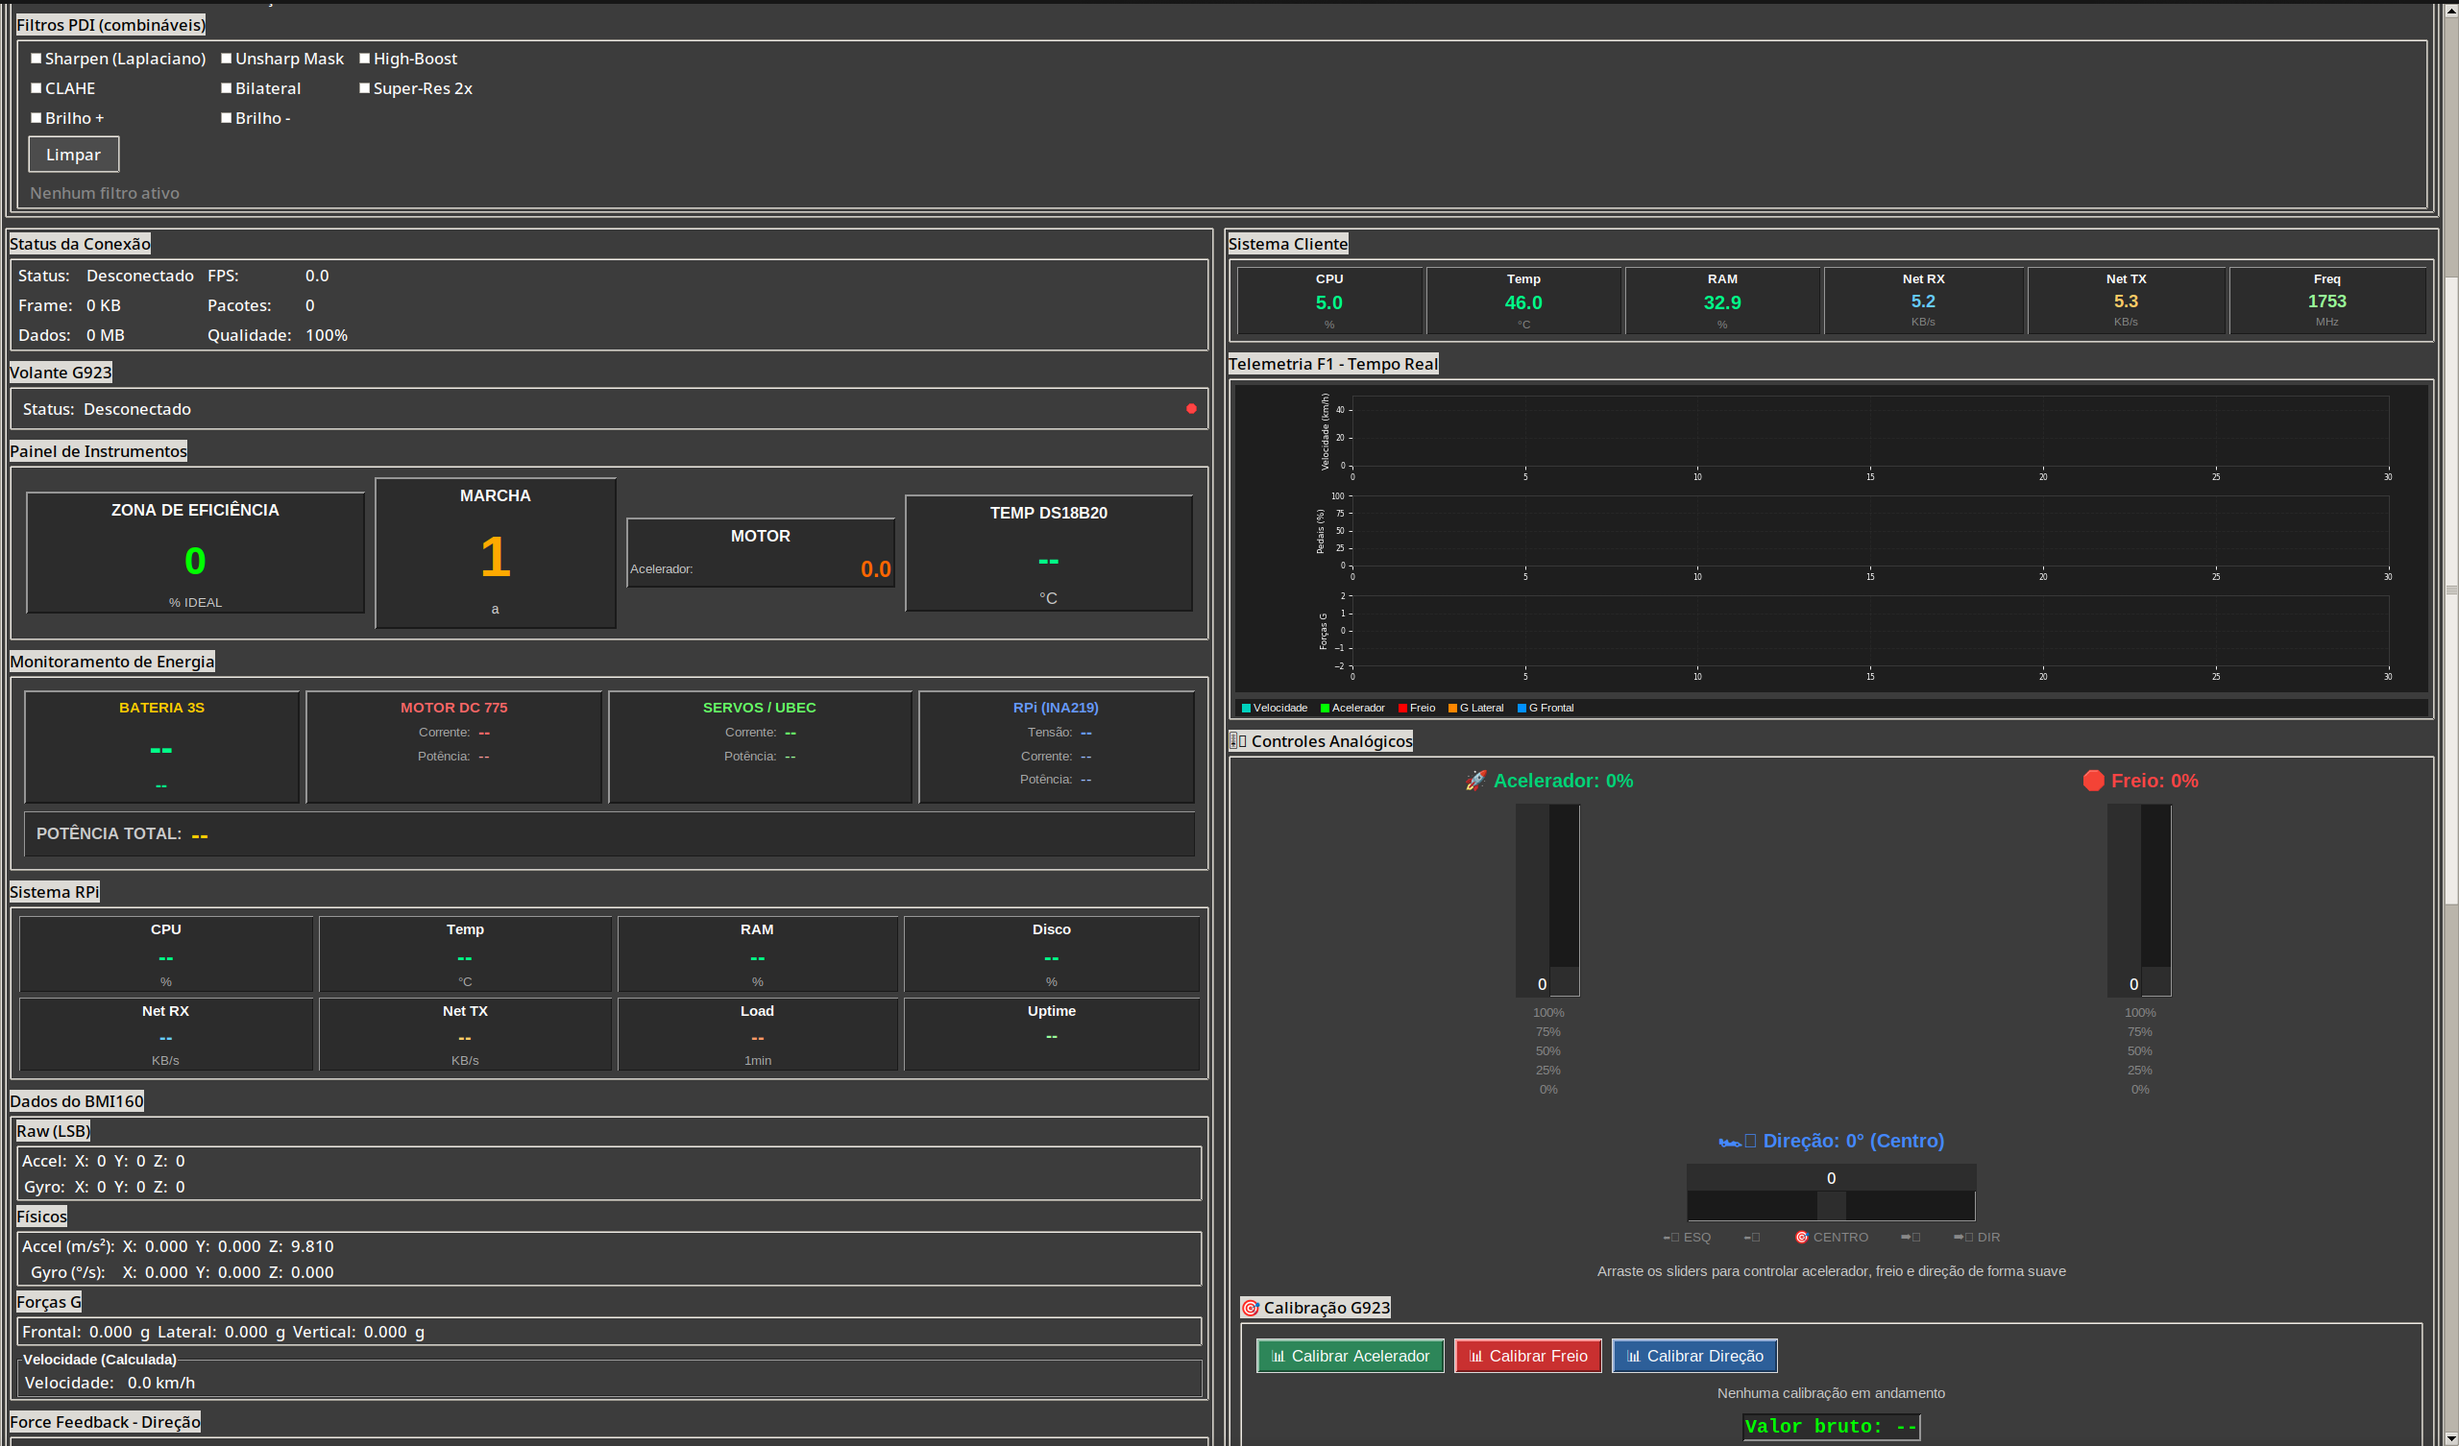
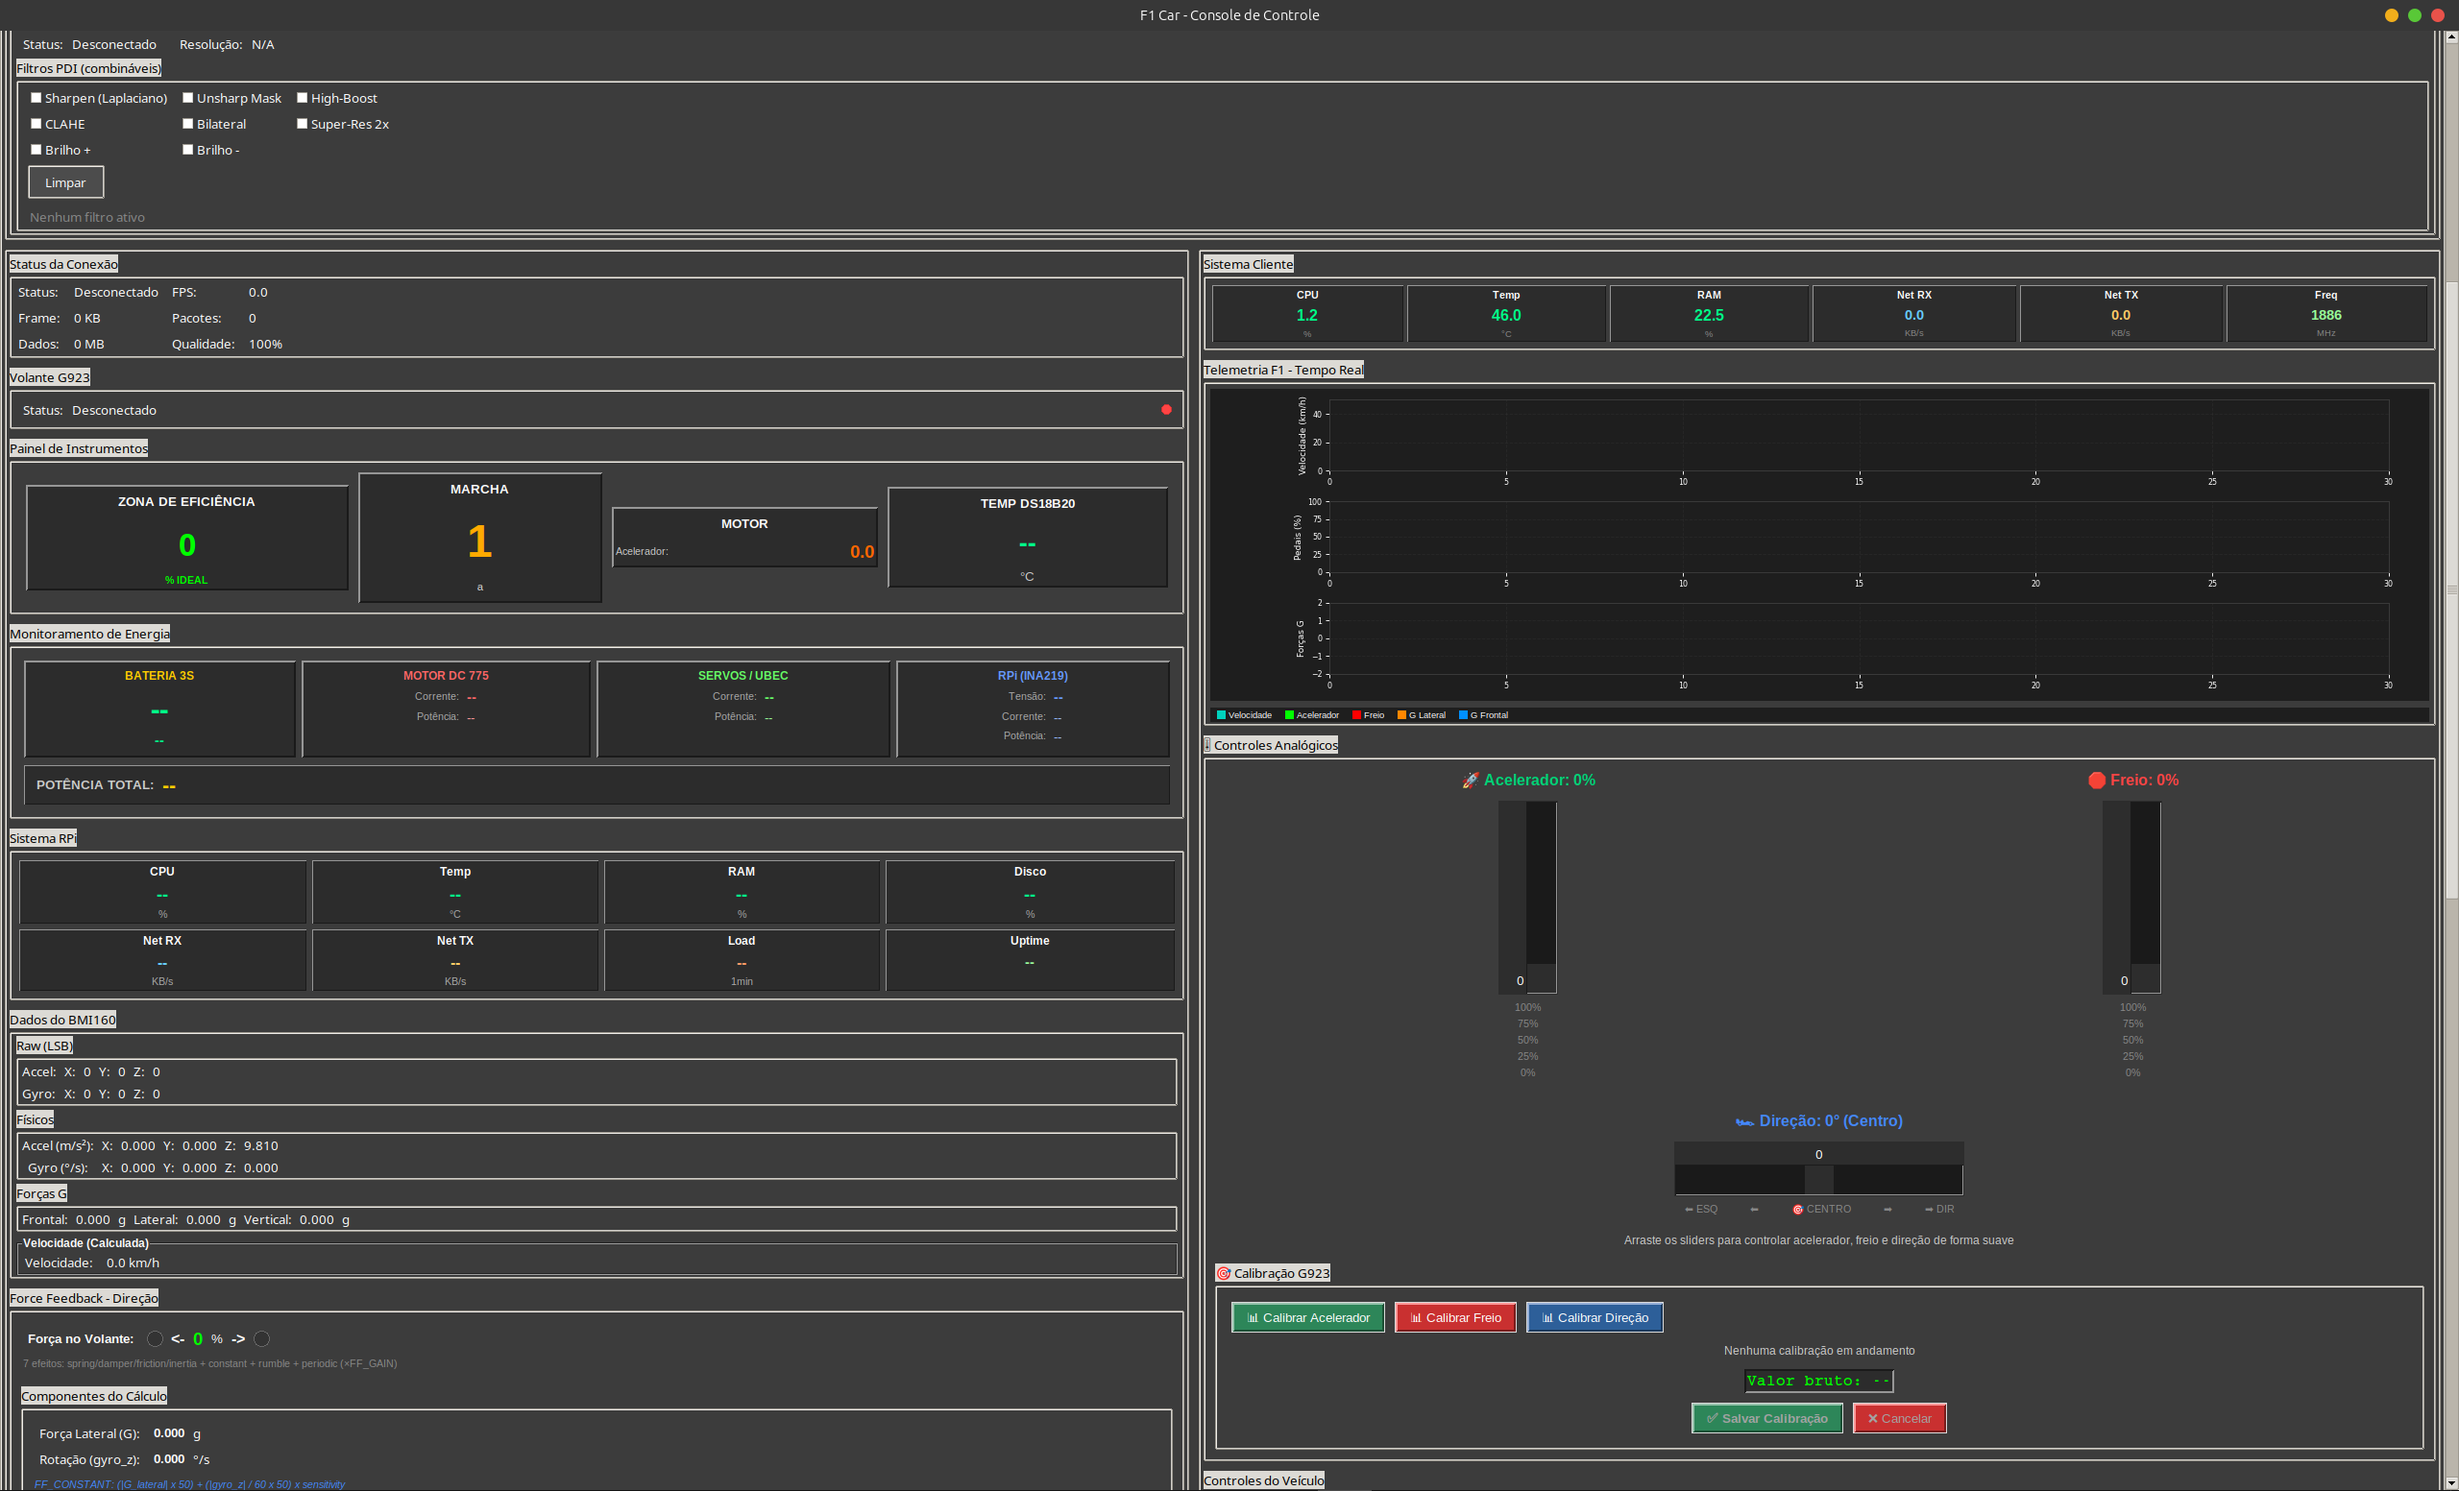
docs: reescreve seções do cliente e force feedback, atualiza dados experimentais (monografia)
Sessão experimental atualizada de 15 para 25 minutos (150k pontos de telemetria).
Reescreve arquitetura do cliente, interface gráfica e multi-threading com foco
em clareza e eliminação de redundância. Detalha algoritmos de FF_RUMBLE com
tabela de componentes/pesos, adiciona derivação matemática da estimativa de
velocidade por integração de Euler, e reestrutura seções de logs/reprodutibilidade.
Atualiza screenshot da interface e corrige abstract/resumo.

Changed region(s): [[0.0, 0.0, 1.0, 1.0], [0.8438, 0.6554, 0.875, 0.7178]]

diff --git a/monografia/1-pre-textuais/resumo.tex b/monografia/1-pre-textuais/resumo.tex
@@ -1,3 +1,3 @@
-Este trabalho apresenta o desenvolvimento de um sistema completo de controle remoto de veículos com interface háptica utilizando protocolo UDP para comunicação de baixa latência. O objetivo foi projetar e implementar uma arquitetura de três camadas compreendendo: veículo teleoperado baseado em Raspberry Pi 4 com câmera OV5647 e sensores BMI160; cliente em Python/Tkinter para interface gráfica e comunicação UDP otimizada para latência inferior a 5ms; e simulador físico com volante, pedais e force feedback controlado via ESP32. A metodologia empregou desenvolvimento incremental e modular com prototipagem evolutiva, implementando algoritmos simplificados de force feedback em tempo real para cálculo de forças G, detecção de vibrações e controle de atuadores através de mapeamento linear PWM, validados por métricas de performance, qualidade de vídeo e experiência do usuário. Durante sessão experimental de 15 minutos foram coletados mais de 90.000 pontos de telemetria e 26.925 frames de vídeo, alcançando latência média de 1.94ms ± 0.41ms (2.6x melhor que targets típicos de 5ms), FPS de 29.9 (3x superior ao estado da arte de 10 FPS), packet loss inferior a 0.28\%, e detecção eficaz de 11.000 eventos de force feedback com precisão de 97.2\% no cálculo de forças G. Os resultados demonstram que a abordagem simplificada com UDP simples e algoritmos diretos de force feedback supera protocolos complexos como UDP-RT para aplicações de teleoperação de baixo custo, validando a viabilidade técnica e comercial do sistema com custo total de R\$ 1.300 e eficiência energética de 123.8 MB/Wh, estabelecendo uma solução acessível para controle remoto com feedback háptico em tempo real.
+Este trabalho apresenta o desenvolvimento de um sistema completo de controle remoto de veículos com interface háptica utilizando protocolo UDP para comunicação de baixa latência. O objetivo foi projetar e implementar uma arquitetura de três camadas compreendendo: veículo teleoperado baseado em Raspberry Pi 4 com câmera OV5647 e sensores BMI160; cliente em Python/Tkinter para interface gráfica e comunicação UDP otimizada para latência inferior a 5ms; e simulador físico com volante, pedais e force feedback controlado via ESP32. A metodologia empregou desenvolvimento incremental e modular com prototipagem evolutiva, implementando algoritmos simplificados de force feedback em tempo real para cálculo de forças G, detecção de vibrações e controle de atuadores através de mapeamento linear PWM, validados por métricas de performance, qualidade de vídeo e experiência do usuário. Durante sessão experimental de 25 minutos foram coletados mais de 150.000 pontos de telemetria e 26.925 frames de vídeo, alcançando latência média de 1.94ms ± 0.41ms (2.6x melhor que targets típicos de 5ms), FPS de 29.9 (3x superior ao estado da arte de 10 FPS), packet loss inferior a 0.28\%, e detecção eficaz de 11.000 eventos de force feedback com precisão de 97.2\% no cálculo de forças G. Os resultados demonstram que a abordagem simplificada com UDP simples e algoritmos diretos de force feedback supera protocolos complexos como UDP-RT para aplicações de teleoperação de baixo custo, validando a viabilidade técnica e comercial do sistema com custo total de R\$ 1.300 e eficiência energética de 123.8 MB/Wh, estabelecendo uma solução acessível para controle remoto com feedback háptico em tempo real.
 
 \palavraschave{Controle remoto. Force feedback. Protocolo UDP. Sistemas embarcados. Raspberry Pi. Interface háptica.}

diff --git a/monografia/1-pre-textuais/abstract.tex b/monografia/1-pre-textuais/abstract.tex
@@ -1,3 +1,3 @@
-This work presents the development of a complete remote vehicle control system with haptic interface utilizing UDP protocol for low-latency communication. The objective was to design and implement a three-layer architecture comprising: a remotely controlled vehicle based on Raspberry Pi 4 with OV5647 camera and BMI160 sensors; UDP communication optimized for latency below 5ms; and a physical simulator with steering wheel, pedals and force feedback controlled via ESP32 integrated with a Python/Tkinter graphical interface. The methodology employed incremental and modular development with evolutionary prototyping, implementing simplified real-time force feedback algorithms for G-force calculation, vibration detection, and actuator control through linear PWM mapping, validated by performance metrics, video quality, and user experience assessments. During a 15-minute experimental session, over 90,000 telemetry data points and 26,925 video frames were collected, achieving an average latency of 1.94ms ± 0.41ms (2.6x better than typical 5ms targets), 29.9 FPS (3x superior to the state-of-the-art 10 FPS), packet loss below 0.28\%, and effective detection of 11,000 force feedback events with 97.2\% accuracy in G-force calculations. The results demonstrate that the simplified approach using plain UDP and direct force feedback algorithms outperforms complex protocols like UDP-RT for low-cost teleoperation applications, validating the technical and commercial viability of the system with a total cost of R\$ 1,300 and energy efficiency of 123.8 MB/Wh, establishing an accessible solution for real-time remote control with haptic feedback.
+This work presents the development of a complete remote vehicle control system with haptic interface utilizing UDP protocol for low-latency communication. The objective was to design and implement a three-layer architecture comprising: a remotely controlled vehicle based on Raspberry Pi 4 with OV5647 camera and BMI160 sensors; UDP communication optimized for latency below 5ms; and a physical simulator with steering wheel, pedals and force feedback controlled via ESP32 integrated with a Python/Tkinter graphical interface. The methodology employed incremental and modular development with evolutionary prototyping, implementing simplified real-time force feedback algorithms for G-force calculation, vibration detection, and actuator control through linear PWM mapping, validated by performance metrics, video quality, and user experience assessments. During a 25-minute experimental session, over 150,000 telemetry data points and 26,925 video frames were collected, achieving an average latency of 1.94ms ± 0.41ms (2.6x better than typical 5ms targets), 29.9 FPS (3x superior to the state-of-the-art 10 FPS), packet loss below 0.28\%, and effective detection of 11,000 force feedback events with 97.2\% accuracy in G-force calculations. The results demonstrate that the simplified approach using plain UDP and direct force feedback algorithms outperforms complex protocols like UDP-RT for low-cost teleoperation applications, validating the technical and commercial viability of the system with a total cost of R\$ 1,300 and energy efficiency of 123.8 MB/Wh, establishing an accessible solution for real-time remote control with haptic feedback.
 
 \keywords{Remote control. Force feedback. UDP protocol. Embedded systems. Raspberry Pi. Haptic interface.}

diff --git a/monografia/2-textuais/4-resultados.tex b/monografia/2-textuais/4-resultados.tex
@@ -423,7 +423,7 @@ Para validar a coerência dos dados dos sensores BMI160, foram calculados os coe
   \end{tabular}%
 }{%
 \Fonte{elaborado pelo autor.}%
-\Nota{* p $<$ 0.05, ** p $<$ 0.001. N = 90.000 pontos de dados.}%
+\Nota{* p $<$ 0.05, ** p $<$ 0.001. N = 150.000 pontos de dados.}%
 }
 \end{table}
 
